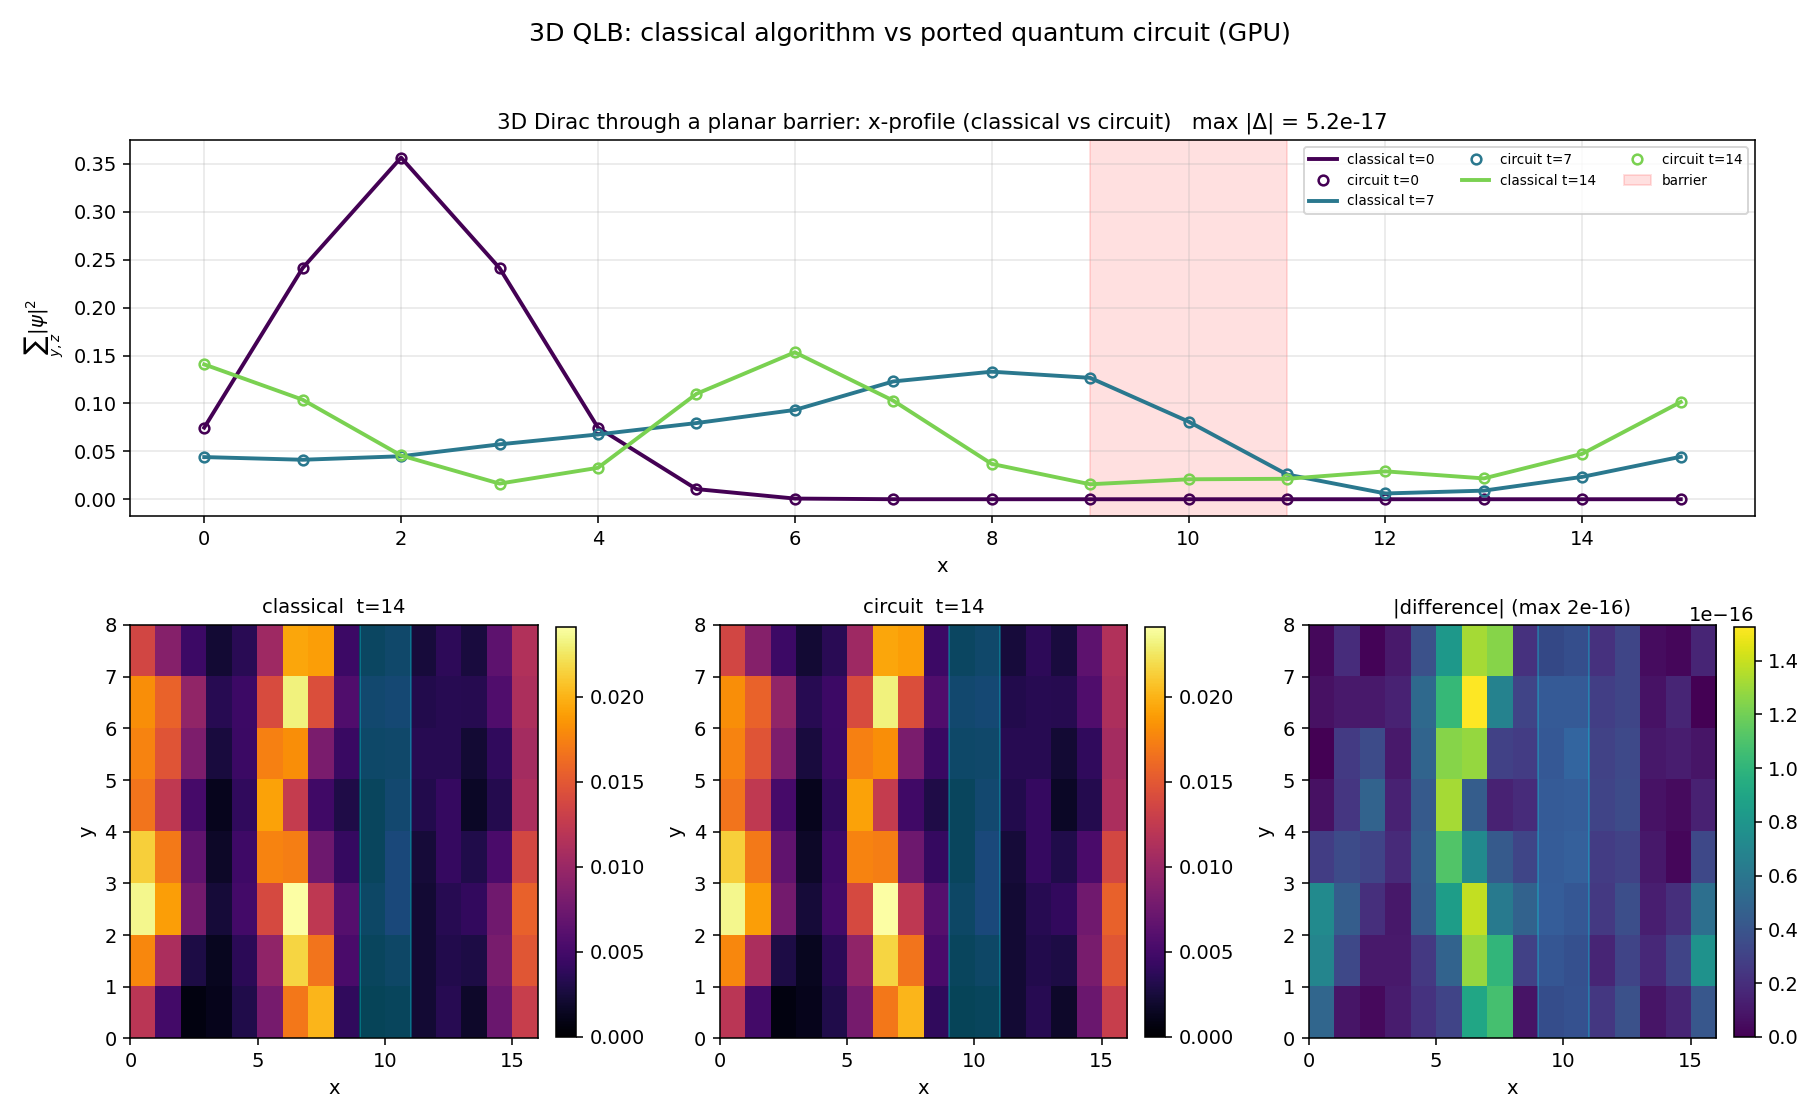
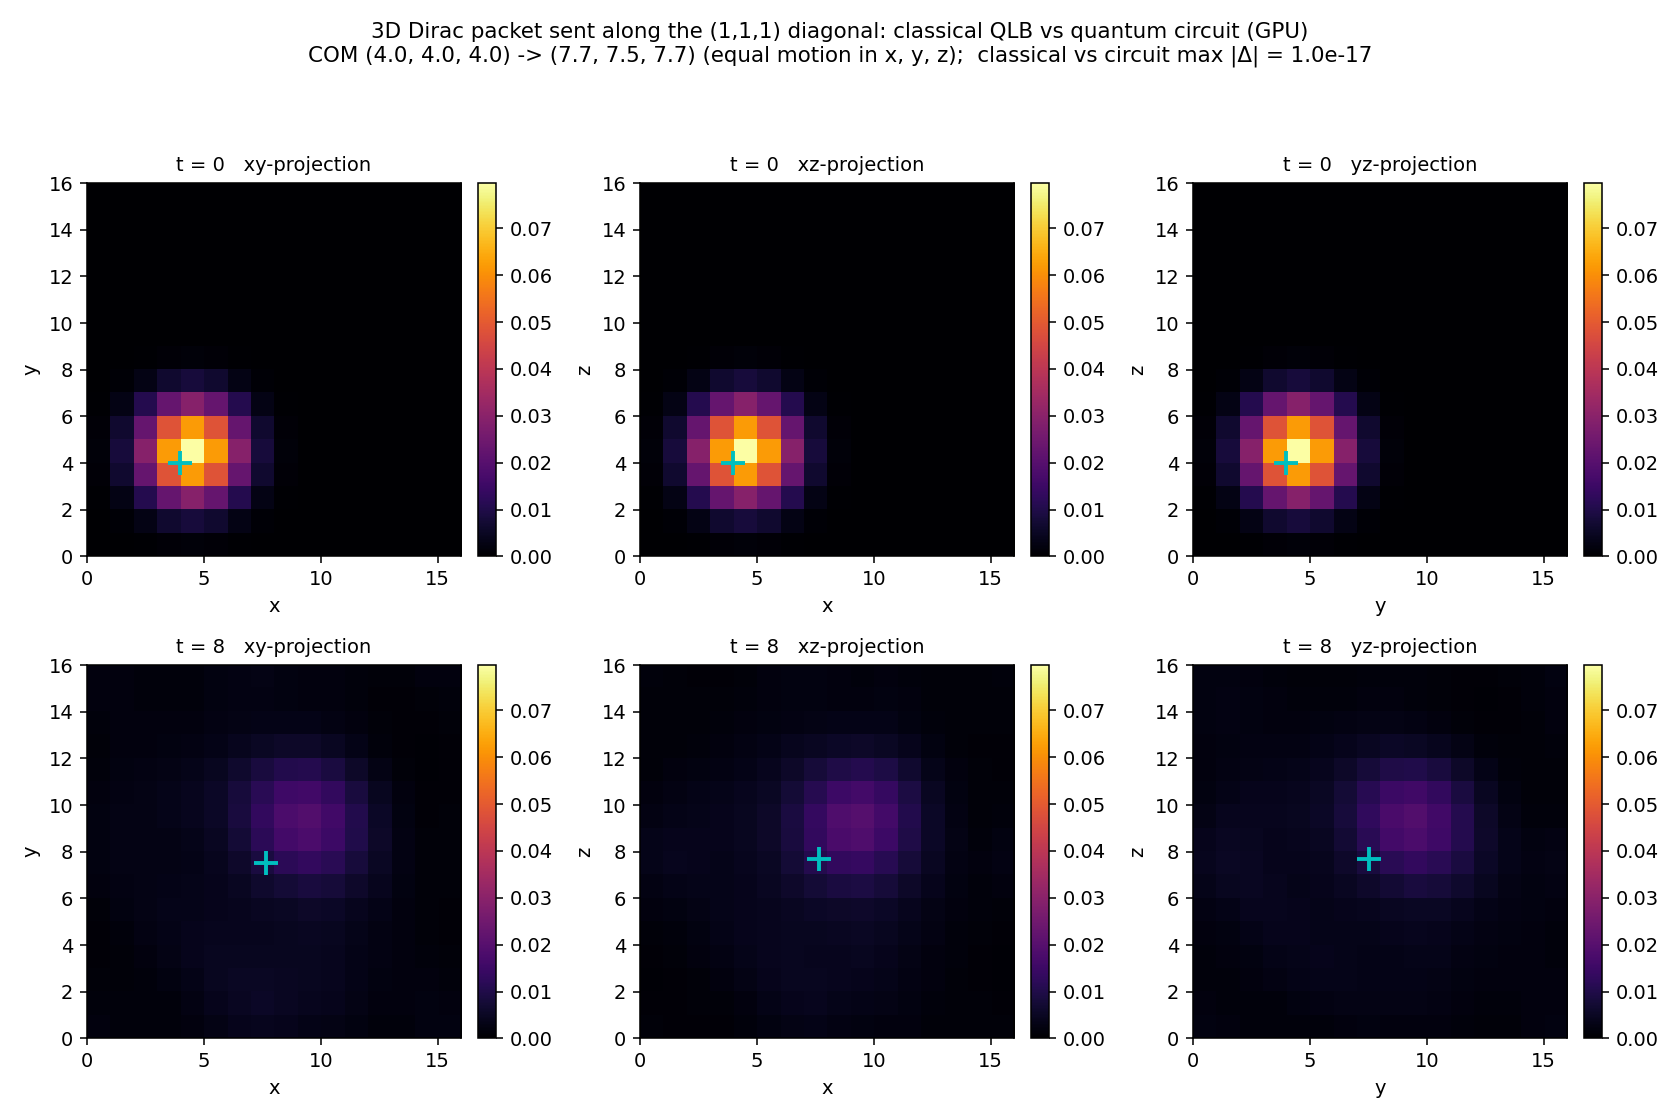
3D: send the wave packet along the (1,1,1) body diagonal
Earlier 3D demos carried momentum only in x (or x-y); the operator check validated
all modes but the packet never propagated along z. This adds a genuine 3D-diagonal
test: the +1 eigenstate of the velocity operator (ALPHA_X + BETA + ALPHA_Z)/sqrt(3)
(Dellar's per-axis velocity operators), so the packet has equal group velocity on
x, y, z and all three sweeps' streaming propagate it.

- test_port.py (Test Q): diagonal mover, circuit vs classical fidelity 1, and COM
  moves equally along x, y, z (ΔCOM ≈ (1.27, 1.20, 1.29)).
- plot_validation_3d.py + validation_3d.png: 16^3 cubic domain, three orthogonal
  projections (xy, xz, yz) at t=0 and t=8; packet moves corner-to-corner in all
  three, classical vs circuit max |Δ| ≈ 1e-17.

diff --git a/qlb_port/plot_validation_3d.py b/qlb_port/plot_validation_3d.py
@@ -1,16 +1,17 @@
 """
-3D classical-vs-circuit overlay: Dirac wave packet through a planar barrier.
+3D classical-vs-circuit overlay: a wave packet sent along the body diagonal.
 ===========================================================================
 
-A massless 3D Dirac wave packet is launched (with a transverse component) toward a
-planar potential barrier and evolved with both the classical 3D QLB algorithm and
-the ported quantum circuit (qiskit-aer, GPU).  Because a full 3D density is hard to
-draw, we show two projections of |psi(x,y,z)|^2:
+A massless 3D Dirac wave packet is launched along the (1,1,1) body diagonal of a
+cubic lattice and evolved with both the classical 3D QLB algorithm and the ported
+quantum circuit (qiskit-aer, GPU).  The "diagonal mover" is the +1 eigenstate of the
+velocity operator (ALPHA_X + BETA + ALPHA_Z)/sqrt(3) (in Dellar's representation the
+per-axis velocity operators are ALPHA_X, BETA, ALPHA_Z), so it has equal group
+velocity along x, y and z and all three sweeps' streaming are genuinely exercised.
 
-  * top row: the x-profile (summed over y and z) at several times -- classical line
-    vs circuit markers -- with the barrier shaded; and
-  * bottom row: the xy-projection (summed over z) at the final time, classical vs
-    circuit vs |difference|.
+The full 3D density is shown as three orthogonal projections (xy, xz, yz) at the
+start and end times; the packet moves from one corner toward the opposite, and the
+circuit reproduces the classical result to machine precision.
 
 Run:
     module load qiskit/aer-gpu
@@ -26,82 +27,89 @@ from . import operators as ops
 from . import backend as bk
 from . import threed
 
-NX, NY, NZ = 4, 3, 3           # 16 x 8 x 8 lattice (12 qubits)
-Nx, Ny, Nz = 2 ** NX, 2 ** NY, 2 ** NZ
-XB0, XBW, G = 9, 2, 0.9        # planar barrier at x in [9, 11)
+NX = NY = NZ = 4                # 16^3 cubic lattice (14 qubits)
+Nx = Ny = Nz = 2 ** NX
+T = 8
+K0 = 0.5
 
 
-def initial_packet(x0=2, sigma=1.6, kx=0.6, ky=0.4):
-    sp = ops.X_ROTATION @ (np.array([0, 0, 1, 1], dtype=complex) / np.sqrt(2))
+def diagonal_spinor():
+    """+1 eigenstate of (ALPHA_X + BETA + ALPHA_Z)/sqrt(3): equal velocity on x,y,z."""
+    A = ops.ALPHA_X + ops.BETA + ops.ALPHA_Z
+    w, V = np.linalg.eigh(A)
+    return V[:, int(np.argmax(w))]
+
+
+def initial_packet(x0=4, sigma=2.0):
+    sp = diagonal_spinor()
     Z, Y, X = np.meshgrid(np.arange(Nz), np.arange(Ny), np.arange(Nx), indexing="ij")
-    env = np.exp(-(((X - x0) ** 2 + (Y - Ny // 2) ** 2 + (Z - Nz // 2) ** 2) / (2 * sigma ** 2)))
-    env = env * np.exp(1j * (kx * X + ky * Y))
+    env = np.exp(-(((X - x0) ** 2 + (Y - x0) ** 2 + (Z - x0) ** 2) / (2 * sigma ** 2)))
+    env = env * np.exp(1j * K0 * (X + Y + Z))
     psi = np.zeros((Nz, Ny, Nx, 4), dtype=complex)
     for c in range(4):
         psi[:, :, :, c] = env * sp[c]
     return (psi / np.linalg.norm(psi)).reshape(-1)
 
 
-def dens_xyz(sv):
+def dens(sv):
     return (np.abs(sv.reshape(Nz, Ny, Nx, 4)) ** 2).sum(axis=3)   # (Nz, Ny, Nx)
+
+
+def com(d):
+    tot = d.sum()
+    return (float((d.sum((0, 1)) * np.arange(Nx)).sum() / tot),
+            float((d.sum((0, 2)) * np.arange(Ny)).sum() / tot),
+            float((d.sum((1, 2)) * np.arange(Nz)).sum() / tot))
 
 
 def main():
     print("Device:", bk.device_report())
-    snaps = [0, 7, 14]
-    V = threed.planar_barrier_field_3d(NX, NY, NZ, range(XB0, XB0 + XBW), G)
     psi0 = initial_packet()
 
-    classical = {}
-    psi = psi0.copy(); tprev = 0
-    for t in snaps:
-        for _ in range(t - tprev):
-            psi = threed.classical_step_3d_potential(psi, NX, NY, NZ, V)
-        tprev = t
-        classical[t] = dens_xyz(psi)
-    step = threed.sweep3d_circuit_potential(NX, NY, NZ, V)
-    svs = bk.evolve_snapshots(step, psi0, snaps)
-    quantum = {t: dens_xyz(svs[t]) for t in snaps}
+    # classical at t=0 and t=T
+    pc = psi0.copy()
+    for _ in range(T):
+        pc = threed.classical_step_3d(pc, NX, NY, NZ, 0.0)
+    d_c0, d_cT = dens(psi0), dens(pc)
+    # circuit at t=0 and t=T (one transpile, one run)
+    svs = bk.evolve_snapshots(threed.sweep3d_circuit(NX, NY, NZ), psi0, [0, T])
+    d_q0, d_qT = dens(svs[0]), dens(svs[T])
 
-    maxdev = max(np.max(np.abs(classical[t] - quantum[t])) for t in snaps)
-    x = np.arange(Nx)
-    colors = plt.cm.viridis(np.linspace(0, 0.8, len(snaps)))
-    fig = plt.figure(figsize=(13, 8))
-    gs = fig.add_gridspec(2, 3, height_ratios=[1, 1.1])
+    maxdev = max(np.max(np.abs(d_c0 - d_q0)), np.max(np.abs(d_cT - d_qT)))
+    c0, cT = com(d_q0), com(d_qT)
+    print(f"COM start {tuple(f'{v:.2f}' for v in c0)} -> end {tuple(f'{v:.2f}' for v in cT)}"
+          f"   max|Δ|={maxdev:.2e}")
 
-    # top: x-profile (sum over y,z), classical line + circuit markers
-    axp = fig.add_subplot(gs[0, :])
-    for t, col in zip(snaps, colors):
-        axp.plot(x, classical[t].sum(axis=(0, 1)), "-", color=col, lw=2, label=f"classical t={t}")
-        axp.plot(x, quantum[t].sum(axis=(0, 1)), "o", color=col, mfc="none", ms=5, mew=1.3,
-                 label=f"circuit t={t}")
-    axp.axvspan(XB0, XB0 + XBW, color="red", alpha=0.12, label="barrier")
-    axp.set_xlabel("x"); axp.set_ylabel(r"$\sum_{y,z}|\psi|^2$")
-    axp.set_title(f"3D Dirac through a planar barrier: x-profile (classical vs circuit)   "
-                  f"max |Δ| = {maxdev:.1e}", fontsize=11)
-    axp.legend(fontsize=7, ncol=3, loc="upper right"); axp.grid(alpha=0.3)
+    # three orthogonal projections at start (row 0) and end (row 1), circuit density
+    def proj(d):
+        return [d.sum(0), d.sum(1), d.sum(2)]   # xy (Ny,Nx), xz (Nz,Nx), yz (Nz,Ny)
+    labels = [("x", "y"), ("x", "z"), ("y", "z")]
+    rows = [("t = 0", d_q0, c0), (f"t = {T}", d_qT, cT)]
+    vmax = max(proj(d_q0)[0].max(), proj(d_qT)[0].max())
 
-    # bottom: xy-projection (sum over z) at final time
-    tf = snaps[-1]
-    cxy, qxy = classical[tf].sum(0), quantum[tf].sum(0)   # (Ny, Nx)
-    diff = np.abs(cxy - qxy)
-    vmax = max(cxy.max(), qxy.max())
-    for col, (dat, title, cmap, vm) in enumerate([
-            (cxy, f"classical  t={tf}", "inferno", vmax),
-            (qxy, f"circuit  t={tf}", "inferno", vmax),
-            (diff, f"|difference| (max {diff.max():.0e})", "viridis", max(diff.max(), 1e-16))]):
-        ax = fig.add_subplot(gs[1, col])
-        im = ax.imshow(dat, origin="lower", aspect="auto", cmap=cmap, vmin=0, vmax=vm,
-                       extent=[0, Nx, 0, Ny])
-        ax.axvspan(XB0, XB0 + XBW, color="cyan", alpha=0.25)
-        ax.set_xlabel("x"); ax.set_ylabel("y"); ax.set_title(title, fontsize=10)
-        fig.colorbar(im, ax=ax, fraction=0.046, pad=0.04)
+    fig, axes = plt.subplots(2, 3, figsize=(12, 8))
+    for r, (tlab, d, c) in enumerate(rows):
+        pr = proj(d)
+        cc = [(c[0], c[1]), (c[0], c[2]), (c[1], c[2])]   # COM in each projection
+        for j in range(3):
+            ax = axes[r, j]
+            im = ax.imshow(pr[j], origin="lower", aspect="auto", cmap="inferno",
+                           vmin=0, vmax=vmax,
+                           extent=[0, pr[j].shape[1], 0, pr[j].shape[0]])
+            ax.plot(cc[j][0], cc[j][1], "c+", ms=12, mew=2)   # mark center of mass
+            ax.set_xlabel(labels[j][0]); ax.set_ylabel(labels[j][1])
+            ax.set_title(f"{tlab}   {labels[j][0]}{labels[j][1]}-projection", fontsize=10)
+            fig.colorbar(im, ax=ax, fraction=0.046, pad=0.04)
 
-    fig.suptitle("3D QLB: classical algorithm vs ported quantum circuit (GPU)", fontsize=13)
-    fig.tight_layout(rect=[0, 0, 1, 0.96])
+    fig.suptitle(
+        "3D Dirac packet sent along the (1,1,1) diagonal: classical QLB vs quantum circuit (GPU)\n"
+        f"COM {tuple(round(v, 1) for v in c0)} -> {tuple(round(v, 1) for v in cT)} "
+        f"(equal motion in x, y, z);  classical vs circuit max |Δ| = {maxdev:.1e}",
+        fontsize=11)
+    fig.tight_layout(rect=[0, 0, 1, 0.94])
     out = "qlb_port/validation_3d.png"
     fig.savefig(out, dpi=140)
-    print(f"Saved {out}   max|Δ|={maxdev:.2e}")
+    print(f"Saved {out}")
 
 
 if __name__ == "__main__":

diff --git a/qlb_port/test_port.py b/qlb_port/test_port.py
@@ -350,6 +350,34 @@ def test_3d_free():
     out = bk.apply_to_statevector(threed.evolution3d_circuit(nx, ny, nz, T, m_tilde=m), psi0)
     check(f"3D {T}-step free packet vs classical", bk.state_fidelity(out, pc) > 1 - 1e-9,
           f"fid {bk.state_fidelity(out, pc):.12f}")
+    # genuine 3D-diagonal mover: +1 eigenstate of (ALPHA_X+BETA+ALPHA_Z) propagates equally in x,y,z
+    A = ops.ALPHA_X + ops.BETA + ops.ALPHA_Z
+    wv, Vv = np.linalg.eigh(A)
+    spd = Vv[:, int(np.argmax(wv))]
+    Zc, Yc, Xc = np.meshgrid(np.arange(Nz), np.arange(Ny), np.arange(Nx), indexing="ij")
+    envd = np.exp(-(((Xc - 2) ** 2 + (Yc - 2) ** 2 + (Zc - 2) ** 2) / (2 * 1.4 ** 2))) * np.exp(1j * 0.5 * (Xc + Yc + Zc))
+    pdi = np.zeros((Nz, Ny, Nx, 4), dtype=complex)
+    for c in range(4):
+        pdi[:, :, :, c] = envd * spd[c]
+    p0 = pdi.reshape(-1); p0 /= np.linalg.norm(p0)
+    Td = 3
+    pcd = p0.copy()
+    for _ in range(Td):
+        pcd = threed.classical_step_3d(pcd, nx, ny, nz, 0.0)
+    outd = bk.apply_to_statevector(threed.evolution3d_circuit(nx, ny, nz, Td), p0)
+
+    def _com(flat):
+        d = (np.abs(flat.reshape(Nz, Ny, Nx, 4)) ** 2).sum(3)
+        return (float((d.sum((0, 1)) * np.arange(Nx)).sum() / d.sum()),
+                float((d.sum((0, 2)) * np.arange(Ny)).sum() / d.sum()),
+                float((d.sum((1, 2)) * np.arange(Nz)).sum() / d.sum()))
+    check("3D diagonal mover circuit vs classical", bk.state_fidelity(outd, pcd) > 1 - 1e-9,
+          f"fid {bk.state_fidelity(outd, pcd):.12f}")
+    c0 = _com(p0); cT = _com(outd)
+    dxyz = [cT[i] - c0[i] for i in range(3)]
+    check("3D packet moves equally along x, y, z (diagonal)",
+          min(dxyz) > 0.2 and (max(dxyz) - min(dxyz)) < 0.1 * max(dxyz),
+          f"ΔCOM = ({dxyz[0]:.2f}, {dxyz[1]:.2f}, {dxyz[2]:.2f})")
 
 
 def test_3d_potential():
